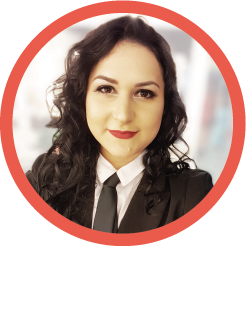
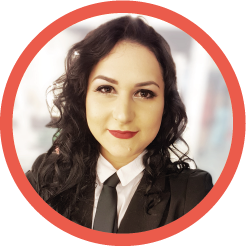
organization / cv news

diff --git a/sobre.html b/sobre.html
@@ -6,6 +6,7 @@
   <meta name="viewport" content="width=device-width, initial-scale=1">
   <title>@mihtoa</title>
   <link rel="shortcut icon" type="image/x-icon" href="favicon.ico" />
+  <link rel="stylesheet" href="//cdn.materialdesignicons.com/2.4.85/css/materialdesignicons.min.css">
   <link rel="stylesheet" href="https://fonts.googleapis.com/icon?family=Material+Icons">
   <link rel="stylesheet" href="cdn/assets/style/material.min.css">
   <link rel="stylesheet" href="cdn/assets/style/style.css">
@@ -38,11 +39,38 @@
         <a class="mdl-navigation__link" href="/contato.html">Contato</a>
       </nav>
     </div>
-    <main class="mdl-layout__content">
-      <hr />
-      <h6>Olá mundo!</h6>
-      <img id="foto" src="cdn/assets/img/foto.png" />
-      <p>Currículo</p>
+    <main class="mdl-layout__content cv">
+      <h1>Olá mundo!</h1>
+      <div class="hr"></div>
+      <div id="box-right">
+        <img id="foto" src="cdn/assets/img/foto.png" />
+        <p></p>
+        <h5>● Milene Toazza ●</h5>
+        <hr />
+        <p>◇ Desenvolvedora Front-end ◇</p>
+        <p>◇ Diretora de Arte ◇</p>
+        <hr />
+        <p>Porto Alegre</p>
+        <p>23 anos</p>
+      </div>
+      <div class="texto-cv">
+        <span class="title"><i class="mdi mdi-certificate"></i>Formação</span>
+        <p>Bacharelado em Publicidade e Propaganda - UniRitter (2013-2017)</p>
+        <span class="title"><i class="mdi mdi-certificate"></i>Cursos Extracurriculares</span>
+        <p>Workshop Práticas em Social Media 8h - Plugcitários (2015)</p>
+        <p>Adobe Illustrator 35h - Data Lógica (2015)</p>
+        <p>Adobe InDesign 30h - Data Lógica (2015)</p>
+        <p>Adobe Photoshop Avançado 35h - Data Lógica (2015)</p>
+        <p>Informática e Técnicas Administrativas - QI Escolas e Faculdades (mar/2009-jun/2010)</p>
+        <span class="title"><i class="mdi mdi-certificate"></i>Cursos Online</span>
+        <p></p>
+        <span class="title"><i class="mdi mdi-certificate"></i>Experiências</span>
+        <p></p>
+        <span class="title"><i class="mdi mdi-certificate"></i>Habilidades</span>
+        <p></p>
+        <span class="title"><i class="mdi mdi-certificate"></i>Idiomas</span>
+        <p></p>
+        </div>
     </main>
     <footer class="mdl-mega-footer">
       <div class="mdl-mega-footer__middle-section">

diff --git a/cdn/assets/style/style.css b/cdn/assets/style/style.css
@@ -51,8 +51,15 @@ body {
 .mdl-layout__header--transparent.mdl-layout__header--transparent {
   background-color: white; }
 
-#foto {
-  float: right; }
+#box-right {
+  float: right;
+  position: relative;
+  text-align: center;
+  margin-top: -100px; }
+  #box-right #foto {
+    -webkit-filter: drop-shadow(3px 3px 4px rgba(0, 0, 0, 0.3)); }
+  #box-right p {
+    line-height: 8px; }
 
 #web-design {
   background-color: #ff5845;
@@ -69,3 +76,35 @@ body {
 .images-home {
   width: initial !important;
   height: initial !important; }
+
+.hr {
+  margin-bottom: 40px;
+  width: 150px;
+  border-bottom: 5px solid #ff5845; }
+
+.texto-cv p {
+  font-family: sans-serif;
+  font-size: 14px;
+  font-weight: lighter;
+  margin: 10px 0; }
+
+.texto-cv .title {
+  color: #2b2525;
+  font-weight: bold;
+  font-size: 18px; }
+
+.texto-cv i {
+  color: #ff5845;
+  font-size: 20px;
+  margin-right: 12px; }
+
+.mdl-mega-footer {
+  background-image: url("/cdn/assets/img/tweed.png");
+  background-blend-mode: overlay; }
+
+.cv {
+  background-image: url("/cdn/assets/img/papper.png");
+  background-blend-mode: overlay; }
+
+hr {
+  border-top: 1px solid #ff5845; }

diff --git a/cdn/assets/style/style.scss b/cdn/assets/style/style.scss
@@ -53,8 +53,17 @@ body, {
 .mdl-layout__header--transparent.mdl-layout__header--transparent {
   background-color: white;
 }
-#foto {
+#box-right {
   float: right;
+  position: relative;
+  text-align: center;
+  margin-top: -100px;
+  #foto {
+    -webkit-filter: drop-shadow(3px 3px 4px rgba(0, 0, 0, 0.3));
+  }
+  p {
+    line-height: 8px;
+  }
 }
 #web-design {
   background-color: #ff5845;
@@ -71,4 +80,38 @@ body, {
 .images-home {
   width:initial!important;
   height:initial!important;
+}
+.hr {
+  margin-bottom: 40px;
+  width: 150px;
+  border-bottom: 5px solid #ff5845;
+}
+.texto-cv {
+  p {
+    font-family: sans-serif;
+    font-size: 14px;
+    font-weight: lighter;
+    margin: 10px 0;
+  }
+  .title {
+    color: #2b2525;
+    font-weight: bold;
+    font-size: 18px;
+  }
+  i {
+    color: #ff5845;
+    font-size: 20px;
+    margin-right: 12px;
+  }
+}
+.mdl-mega-footer {
+  background-image: url("/cdn/assets/img/tweed.png");
+  background-blend-mode: overlay;
+}
+.cv {
+  background-image: url("/cdn/assets/img/papper.png");
+  background-blend-mode: overlay;
+}
+hr {
+      border-top: 1px solid #ff5845;
 }

diff --git a/contato.html b/contato.html
@@ -5,6 +5,7 @@
   <meta name="viewport" content="width=device-width, initial-scale=1">
   <title>@mihtoa</title>
   <link rel="shortcut icon" type="image/x-icon" href="favicon.ico" />
+  <link rel="stylesheet" href="//cdn.materialdesignicons.com/2.4.85/css/materialdesignicons.min.css">
   <link rel="stylesheet" href="https://fonts.googleapis.com/icon?family=Material+Icons">
   <link rel="stylesheet" href="cdn/assets/style/material.min.css">
   <link rel="stylesheet" href="cdn/assets/style/style.css">

diff --git a/index.html b/index.html
@@ -5,6 +5,7 @@
   <meta name="viewport" content="width=device-width, initial-scale=1">
   <title>@mihtoa</title>
   <link rel="shortcut icon" type="image/x-icon" href="favicon.ico" />
+  <link rel="stylesheet" href="//cdn.materialdesignicons.com/2.4.85/css/materialdesignicons.min.css">
   <link rel="stylesheet" href="https://fonts.googleapis.com/icon?family=Material+Icons">
   <link rel="stylesheet" href="cdn/assets/style/material.min.css">
   <link rel="stylesheet" href="cdn/assets/style/style.css">
